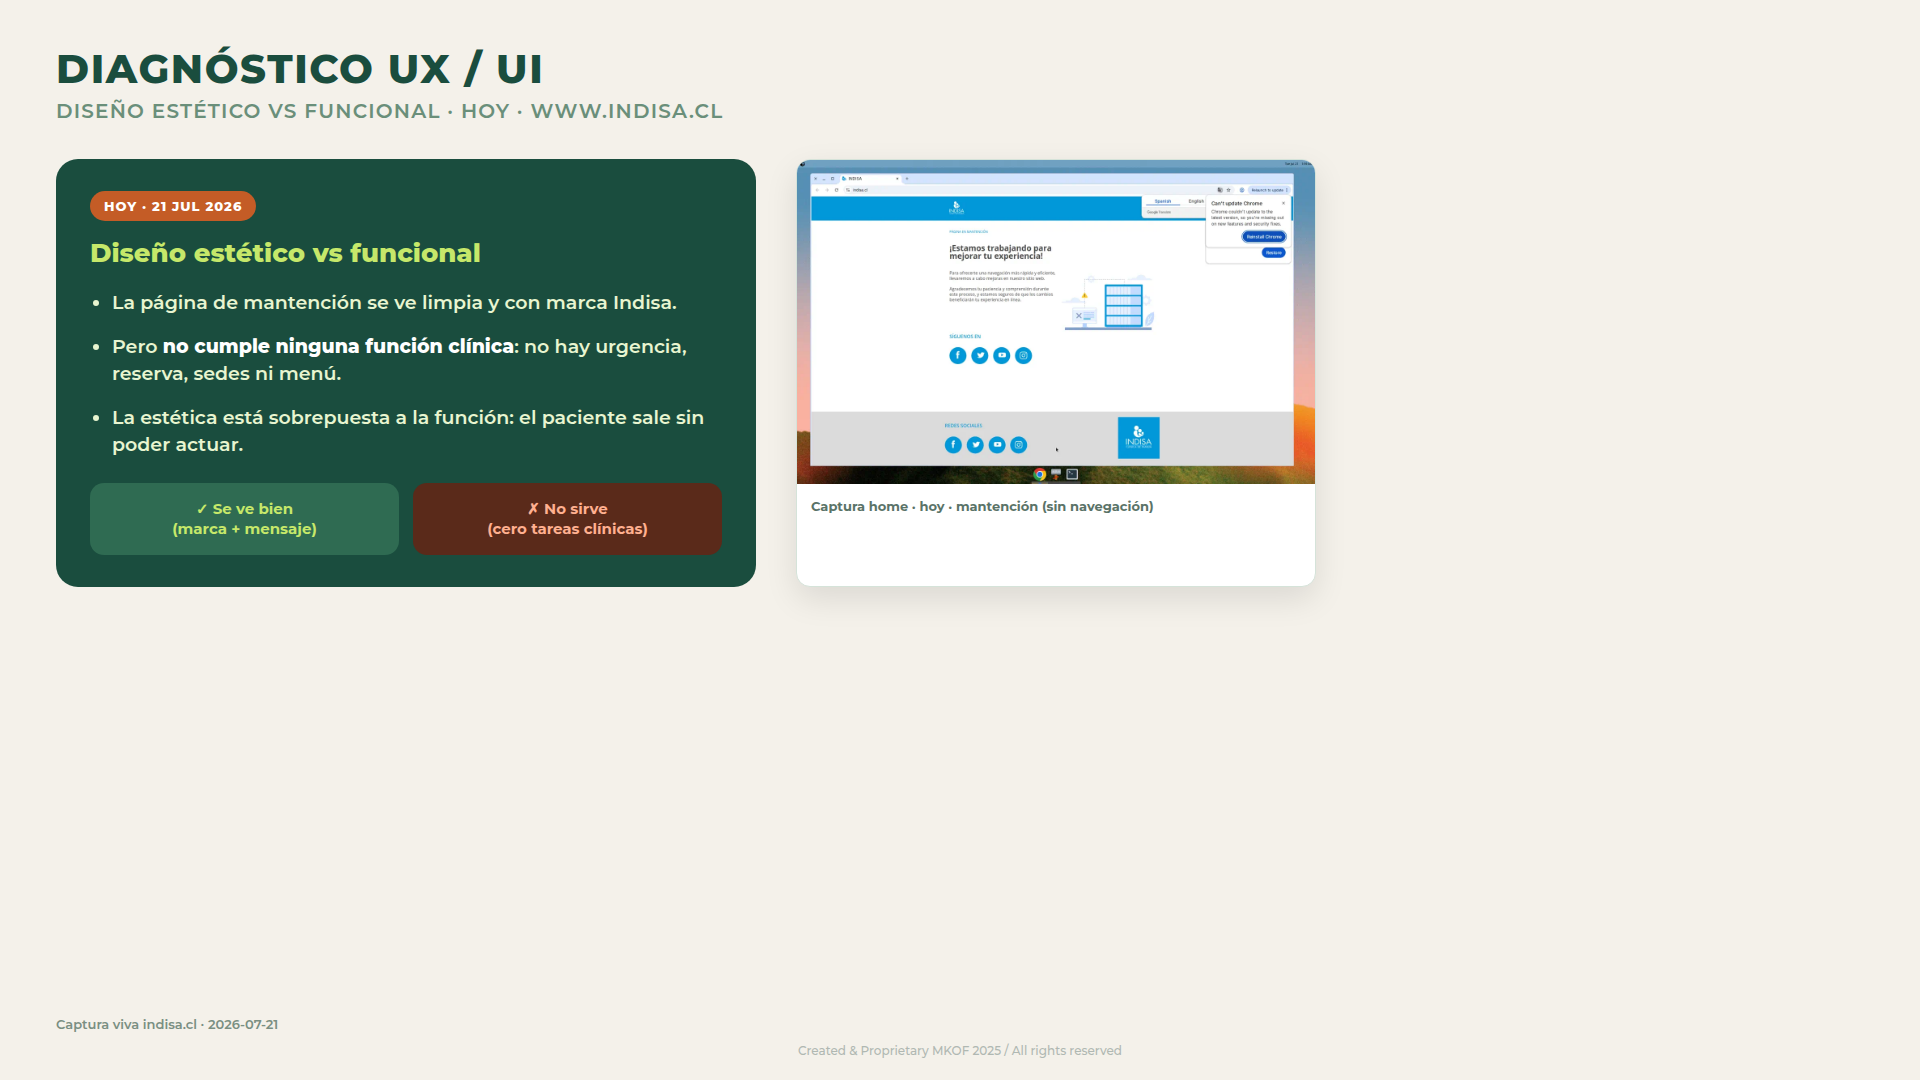
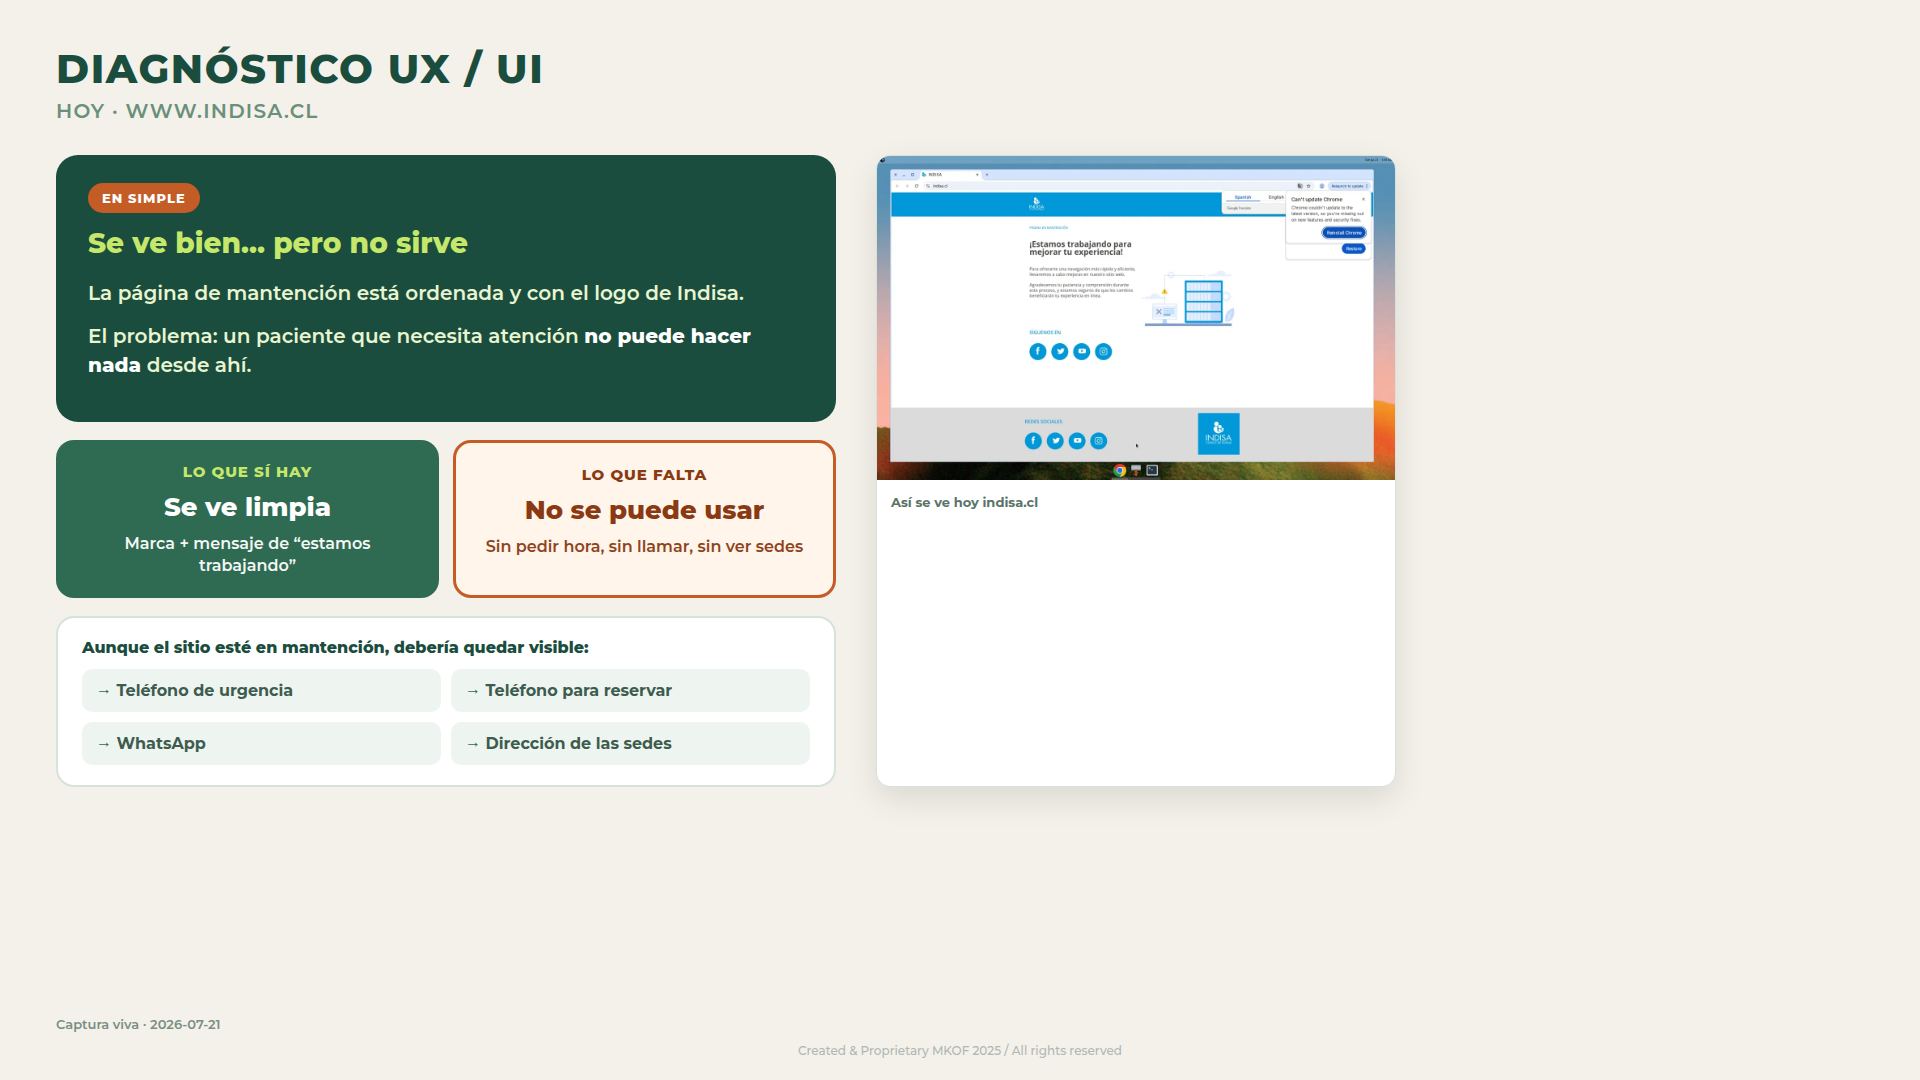
fix(mkof): lámina 06 en lenguaje simple (sin tecnicismos)
'Se ve bien… pero no sirve' — sin Next.js, CMS ni degradación.

diff --git a/index/clientes/mkof/prospecto/clientes/clinica-indisa/laminas/web/06-estetico-vs-funcional.html b/index/clientes/mkof/prospecto/clientes/clinica-indisa/laminas/web/06-estetico-vs-funcional.html
@@ -2,7 +2,7 @@
 <html lang="es">
 <head>
   <meta charset="UTF-8">
-  <title>Estético vs funcional · Hoy · Indisa</title>
+  <title>Se ve bien pero no sirve · Indisa hoy</title>
   <style>
     @import url('https://fonts.googleapis.com/css2?family=Montserrat:wght@500;600;700;800&display=swap');
     * { box-sizing: border-box; margin: 0; padding: 0; }
@@ -15,62 +15,95 @@
     .sub { font-size: 20px; font-weight: 600; color: #6a8f7a; margin-top: 6px; letter-spacing: 0.06em; }
     .foot { position: absolute; bottom: 22px; left: 0; right: 0; text-align: center; font-size: 12px; color: #b0b8b2; }
     .fuente { position: absolute; bottom: 48px; left: 56px; font-size: 13px; color: #7a8f82; font-weight: 600; }
-    .wrap { display: flex; gap: 40px; margin-top: 36px; align-items: stretch; }
+    .wrap { display: flex; gap: 40px; margin-top: 32px; align-items: stretch; }
+    .left { flex: 1; max-width: 780px; display: flex; flex-direction: column; gap: 18px; }
     .box {
       background: #1a4d3e; color: #e8f5d0; border-radius: 22px;
-      padding: 32px 34px; flex: 1; max-width: 700px;
+      padding: 28px 32px;
     }
     .box .badge {
       display: inline-block; background: #c45c26; color: #fff;
       font-size: 13px; font-weight: 800; letter-spacing: 0.08em;
-      padding: 7px 14px; border-radius: 999px; margin-bottom: 16px;
+      padding: 7px 14px; border-radius: 999px; margin-bottom: 14px;
     }
-    .box h2 { font-size: 26px; font-weight: 800; color: #c6e86a; margin-bottom: 20px; }
-    .box li {
-      font-size: 19px; font-weight: 600; line-height: 1.45;
-      margin-bottom: 16px; margin-left: 22px;
+    .box h2 { font-size: 28px; font-weight: 800; color: #c6e86a; margin-bottom: 18px; line-height: 1.2; }
+    .box p { font-size: 20px; font-weight: 600; line-height: 1.45; margin-bottom: 14px; }
+    .dos {
+      display: grid; grid-template-columns: 1fr 1fr; gap: 14px;
     }
-    .vs {
-      display: grid; grid-template-columns: 1fr 1fr; gap: 14px; margin-top: 24px;
+    .dos > div {
+      border-radius: 18px; padding: 22px 20px; text-align: center;
     }
-    .vs div {
-      border-radius: 14px; padding: 16px; text-align: center;
-      font-size: 15px; font-weight: 700; line-height: 1.35;
+    .dos .ok { background: #2f6b52; color: #fff; }
+    .dos .bad { background: #fff5eb; border: 3px solid #c45c26; color: #8a3a12; }
+    .dos .tit { font-size: 15px; font-weight: 800; letter-spacing: 0.06em; margin-bottom: 10px; }
+    .dos .ok .tit { color: #c6e86a; }
+    .dos .big { font-size: 26px; font-weight: 800; line-height: 1.25; margin-bottom: 10px; }
+    .dos .det { font-size: 16px; font-weight: 600; line-height: 1.35; opacity: 0.95; }
+    .necesita {
+      background: #fff; border: 2px solid #d5e3d9; border-radius: 18px;
+      padding: 20px 24px;
     }
-    .vs .ok { background: #2f6b52; color: #c6e86a; }
-    .vs .bad { background: #5a2a1a; color: #ffb090; }
+    .necesita h3 { font-size: 16px; font-weight: 800; color: #1a4d3e; margin-bottom: 12px; }
+    .necesita ul { list-style: none; display: grid; grid-template-columns: 1fr 1fr; gap: 10px; }
+    .necesita li {
+      font-size: 16px; font-weight: 700; color: #3d5c4e;
+      background: #eef5f1; border-radius: 10px; padding: 12px 14px;
+    }
+    .necesita li::before { content: "→ "; color: #2f6b52; }
     .shot {
       width: 520px; background: #fff; border-radius: 14px;
       border: 1px solid #d5e3d9; overflow: hidden;
       box-shadow: 0 12px 32px rgba(0,0,0,.1); flex-shrink: 0;
     }
-    .shot img { width: 100%; display: block; object-fit: cover; object-position: top; max-height: 700px; }
+    .shot img { width: 100%; display: block; object-fit: cover; object-position: top; max-height: 720px; }
     .shot .cap { padding: 14px; font-size: 13px; font-weight: 700; color: #5a7368; }
   </style>
 </head>
 <body>
   <h1>DIAGNÓSTICO UX / UI</h1>
-  <div class="sub">DISEÑO ESTÉTICO VS FUNCIONAL · HOY · WWW.INDISA.CL</div>
+  <div class="sub">HOY · WWW.INDISA.CL</div>
+
   <div class="wrap">
-    <div class="box">
-      <div class="badge">HOY · 21 JUL 2026</div>
-      <h2>Diseño estético vs funcional</h2>
-      <ul>
-        <li>La página de mantención se ve limpia y con marca Indisa.</li>
-        <li>Pero <b style="color:#fff">no cumple ninguna función clínica</b>: no hay urgencia, reserva, sedes ni menú.</li>
-        <li>La estética está sobrepuesta a la función: el paciente sale sin poder actuar.</li>
-      </ul>
-      <div class="vs">
-        <div class="ok">✓ Se ve bien<br>(marca + mensaje)</div>
-        <div class="bad">✗ No sirve<br>(cero tareas clínicas)</div>
+    <div class="left">
+      <div class="box">
+        <div class="badge">EN SIMPLE</div>
+        <h2>Se ve bien… pero no sirve</h2>
+        <p>La página de mantención está ordenada y con el logo de Indisa.</p>
+        <p>El problema: un paciente que necesita atención <b style="color:#fff">no puede hacer nada</b> desde ahí.</p>
+      </div>
+
+      <div class="dos">
+        <div class="ok">
+          <div class="tit">LO QUE SÍ HAY</div>
+          <div class="big">Se ve limpia</div>
+          <div class="det">Marca + mensaje de “estamos trabajando”</div>
+        </div>
+        <div class="bad">
+          <div class="tit">LO QUE FALTA</div>
+          <div class="big">No se puede usar</div>
+          <div class="det">Sin pedir hora, sin llamar, sin ver sedes</div>
+        </div>
+      </div>
+
+      <div class="necesita">
+        <h3>Aunque el sitio esté en mantención, debería quedar visible:</h3>
+        <ul>
+          <li>Teléfono de urgencia</li>
+          <li>Teléfono para reservar</li>
+          <li>WhatsApp</li>
+          <li>Dirección de las sedes</li>
+        </ul>
       </div>
     </div>
+
     <div class="shot">
-      <img src="capturas/web-indisa-home.png" alt="Indisa hoy mantención" />
-      <div class="cap">Captura home · hoy · mantención (sin navegación)</div>
+      <img src="capturas/web-indisa-home.png" alt="Indisa hoy" />
+      <div class="cap">Así se ve hoy indisa.cl</div>
     </div>
   </div>
-  <div class="fuente">Captura viva indisa.cl · 2026-07-21</div>
+
+  <div class="fuente">Captura viva · 2026-07-21</div>
   <div class="foot">Created & Proprietary MKOF 2025 / All rights reserved</div>
 </body>
 </html>
